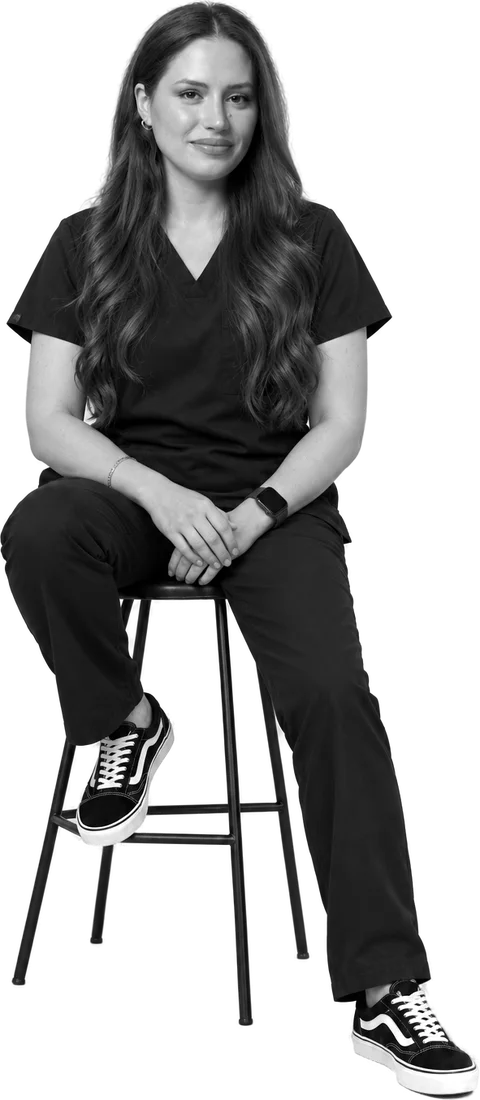
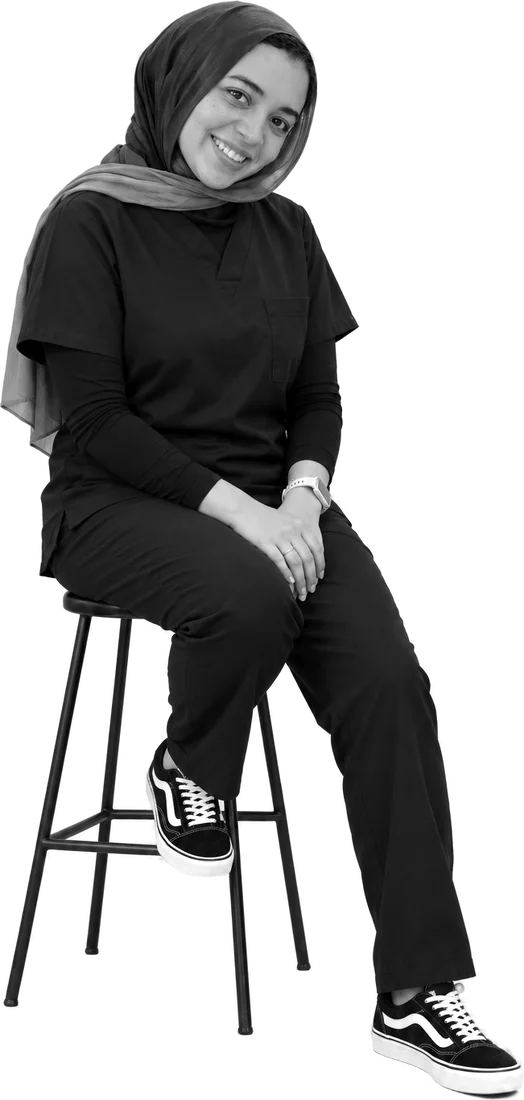
Add files via upload

diff --git a/index.html b/index.html
@@ -16,12 +16,11 @@
 <meta property="og:url" content="https://eleveclinicegy.com/">
 <link rel="canonical" href="https://eleveclinicegy.com/">
 <meta name="twitter:card" content="summary_large_image">
-<script type="application/ld+json">{"@context":"https://schema.org","@type":"Dentist","name":"ÉLEVÉ Dental & Aesthetic Clinic","url":"https://eleveclinicegy.com/","image":"https://eleveclinicegy.com/og-image.jpg","address":{"@type":"PostalAddress","streetAddress":"35 Oman Street, off Mohie El Din Abou El Ezz","addressLocality":"Dokki","addressRegion":"Giza","addressCountry":"EG"},"hasMap":"https://maps.app.goo.gl/qfj1usntq1YWVkui9","telephone":"+201037343514","sameAs":["https://www.instagram.com/elevedentaleg/","https://www.instagram.com/eleveaestheticeg/","https://www.facebook.com/profile.php?id=61591872480309","https://www.facebook.com/profile.php?id=61592040232927"]}</script>
+<script type="application/ld+json">{"@context":"https://schema.org","@type":"Dentist","name":"ÉLEVÉ Dental & Aesthetic Clinic","url":"https://eleveclinicegy.com/","image":"https://eleveclinicegy.com/og-image.jpg","address":{"@type":"PostalAddress","streetAddress":"35 Oman Street, off Mohie El Din Abou El Ezz","addressLocality":"Dokki","addressRegion":"Giza","addressCountry":"EG"},"hasMap":"https://maps.google.com/?q=Eleve%20dental%20and%20aesthetic%20clinic&ftid=0x145847f15ecc92a3:0x3178656723b6a2f4","telephone":"+201037343514","sameAs":["https://www.instagram.com/elevedentaleg/","https://www.instagram.com/eleveaestheticeg/","https://www.facebook.com/profile.php?id=61591872480309","https://www.facebook.com/profile.php?id=61592040232927"]}</script>
 <link rel="preconnect" href="https://fonts.googleapis.com">
 <link rel="preconnect" href="https://fonts.gstatic.com" crossorigin>
 <link rel="stylesheet" href="https://fonts.googleapis.com/css2?family=Cormorant+Garamond:ital,wght@0,400;0,500;1,400&family=Pinyon+Script&family=Source+Sans+3:wght@300;400;600&family=Noto+Naskh+Arabic:wght@500;600&family=IBM+Plex+Sans+Arabic:wght@300;400;600&display=swap">
 <style>body{margin:0}[hidden]{display:none!important}</style>
-
 <style>
 /* Layout: full-bleed photo hero, then two quiet bands of Instagram-style highlight circles (Dental, then Aesthetic), before/after, one dark booking band. Single light brand theme by choice. */
 :root{
@@ -249,8 +248,8 @@ html[dir="rtl"] .nav svg{transform:scaleX(-1)}
 .dname span{display:block;font:400 clamp(2.2rem,4.6vw,4rem)/1.08 var(--display)}
 html[lang="ar"] .dname span{font-family:var(--ar-display);font-weight:600;line-height:1.4;font-size:clamp(1.9rem,4vw,3.3rem)}
 .dname span:first-child{color:rgba(251,250,247,.72);font-size:clamp(1.6rem,3vw,2.5rem)}
-.drole{font:600 .74rem/1 var(--body);letter-spacing:.22em;text-transform:uppercase;color:var(--gold)}
-html[lang="ar"] .drole{font-family:var(--ar-body);letter-spacing:0;font-size:.95rem}
+.drole{font:600 .95rem/1.45 var(--body);letter-spacing:.01em;color:var(--gold);max-width:44ch}
+html[lang="ar"] .drole{font-family:var(--ar-body);letter-spacing:0;font-size:1rem}
 .dbio{color:rgba(251,250,247,.72);max-width:38ch}
 .stage .pic{position:relative;height:100%;min-height:inherit;display:flex;align-items:flex-end;justify-content:center}
 .stage .pic::before{content:"";position:absolute;inset:8% 0 0;background:radial-gradient(closest-side,rgba(182,146,102,.22),rgba(182,146,102,0));pointer-events:none}
@@ -295,6 +294,8 @@ html[dir="rtl"] .prog i{transform-origin:right}
   .dname span{font-size:1.75rem}
   .dname span:first-child{font-size:1.25rem}
   html[lang="ar"] .dname span{font-size:1.5rem}
+  .drole{font-size:.82rem}
+  html[lang="ar"] .drole{font-size:.88rem}
   .dbio{font-size:.9rem}
   .stage .pic{min-height:360px}
   .stage .pic img{height:360px}
@@ -327,6 +328,38 @@ html[lang="ar"] .ba .lab{font-family:var(--ar-body);letter-spacing:0;font-size:.
 .ba input{position:absolute;inset:0;width:100%;height:100%;opacity:0;cursor:ew-resize;z-index:3;margin:0}
 .ba-note{text-align:center;font-size:.85rem;color:var(--stone);margin-top:18px}
 @media (max-width:700px){.ba-grid{grid-template-columns:1fr}}
+
+/* reviews */
+.reviews{background:var(--sand);padding-block:clamp(64px,9vw,110px)}
+.reviews .top{display:flex;justify-content:space-between;align-items:end;gap:20px;flex-wrap:wrap;margin-bottom:clamp(28px,4vw,44px)}
+.reviews h2{font-size:clamp(2.2rem,4vw,3.2rem);margin-top:12px}
+.gscore{display:flex;align-items:center;gap:14px}
+.gscore b{font:400 3.2rem/1 var(--display);color:var(--ink)}
+.gscore .stars{color:var(--gold);letter-spacing:2px;font-size:1.1rem}
+.gscore small{display:block;color:#5c5852;font-size:.85rem}
+.rv{list-style:none;margin:0;padding:0;display:grid;grid-template-columns:repeat(3,1fr);gap:16px}
+.rv li{background:var(--paper);border-radius:22px;padding:26px;display:flex;flex-direction:column;gap:14px;min-width:0}
+.rv .stars{color:var(--gold);letter-spacing:2px}
+.rv q{quotes:none;font-size:1rem;line-height:1.65;color:var(--ink)}
+.rv q[lang="ar"]{font-family:var(--ar-body);direction:rtl;text-align:start}
+.rv footer{margin-top:auto;display:flex;justify-content:space-between;gap:10px;font-size:.85rem;color:var(--stone);background:none;padding:0}
+.rv footer b{color:var(--ink);font-weight:600}
+html[dir="rtl"] .flipx{display:inline-block;transform:scaleX(-1)}
+.reviews .more{margin-top:22px;display:inline-flex;gap:.5em;color:var(--gold-ink);font-weight:600;text-decoration:none}
+@media (max-width:860px){.rv{grid-template-columns:1fr}}
+
+/* payment */
+.pay{padding-block:clamp(48px,7vw,80px)}
+.pay .wrap{display:grid;grid-template-columns:.8fr 1.2fr;gap:clamp(24px,5vw,64px);align-items:center}
+.pay h2{font-size:clamp(2rem,3.6vw,2.8rem);margin-top:12px}
+.pay .lst{display:grid;gap:12px}
+.pay .row{display:flex;gap:14px;align-items:flex-start;padding:18px 20px;border:1px solid var(--line);border-radius:18px;background:var(--paper)}
+.pay .row svg{width:26px;height:26px;flex:none;fill:none;stroke:var(--gold-ink);stroke-width:1.6;stroke-linecap:round;stroke-linejoin:round;margin-top:2px}
+.pay .row b{display:block;font-weight:600;margin-bottom:4px}
+.pay .row span{color:var(--stone);font-size:.95rem}
+.pay .chips{display:flex;flex-wrap:wrap;gap:8px;margin-top:8px}
+.pay .chips i{font-style:normal;border:1px solid var(--line);border-radius:999px;padding:4px 12px;font-size:.85rem;color:var(--ink)}
+@media (max-width:860px){.pay .wrap{grid-template-columns:1fr}}
 
 /* booking form */
 .book .grid{display:grid;grid-template-columns:.85fr 1.15fr;gap:clamp(32px,6vw,72px);align-items:start;padding-bottom:clamp(48px,7vw,80px);border-bottom:1px solid rgba(251,250,247,.12)}
@@ -468,7 +501,6 @@ html[lang="ar"] .facts dt{font-family:var(--ar-body);letter-spacing:0;font-size:
   <section class="hero">
     <figure class="slide rec on"><img src="hero-reception.webp" alt="ÉLEVÉ reception desk under the clinic sign"></figure>
     <div class="copy">
-      <span class="eyebrow" data-i18n="hero.eyebrow"></span>
       <h1 data-i18n="hero.title"></h1>
       <p data-i18n="hero.lede"></p>
       <div class="row">
@@ -576,6 +608,32 @@ html[lang="ar"] .facts dt{font-family:var(--ar-body);letter-spacing:0;font-size:
     </div>
   </section>
 
+  <section class="reviews" id="reviews">
+    <div class="wrap">
+      <div class="top">
+        <div><span class="eyebrow" data-i18n="rv.eyebrow"></span><h2 data-i18n="rv.t"></h2></div>
+        <div class="gscore"><b>4.9</b><div><span class="stars" aria-hidden="true">★★★★★</span><small data-i18n="rv.score"></small></div></div>
+      </div>
+      <ul class="rv">
+        <li><span class="stars" aria-label="5 stars">★★★★★</span><q lang="en">I had a great experience. The clinic is clean, and everyone was friendly and professional. The doctor who did my skin booster was perfect, listened to all my concerns, and made me feel comfortable throughout the treatment.</q><footer><b>Salma A.</b><span>Google</span></footer></li>
+        <li><span class="stars" aria-label="5 stars">★★★★★</span><q lang="ar">عياده جميله و شغلهم مميز جداً محستش باي ألم دكتور عبدالرحمن و دكتور معاذ مريحين جداً في التعامل</q><footer><b>Ahmed K.</b><span>Google</span></footer></li>
+        <li><span class="stars" aria-label="5 stars">★★★★★</span><q lang="ar">أتقدم بجزيل الشكر للدكتور عبد الرحمن والدكتور معاذ على اهتمامهم الكبير براحة المرضى وحرصهم الشديد على التعقيم والنظافة، واحترافيتهم في التعامل. أسلوبهم الراقي واهتمامهم بكل التفاصيل خلّى التجربة مريحة جدًا ومطمئنة.</q><footer><b>Jana A.</b><span>Google</span></footer></li>
+      </ul>
+      <a class="more" href="https://maps.google.com/?q=Eleve%20dental%20and%20aesthetic%20clinic&amp;ftid=0x145847f15ecc92a3:0x3178656723b6a2f4" target="_blank" rel="noopener"><span data-i18n="rv.more"></span><span class="flipx">→</span></a>
+    </div>
+  </section>
+
+  <section class="pay" id="payment">
+    <div class="wrap">
+      <div><span class="eyebrow" data-i18n="pay.eyebrow"></span><h2 data-i18n="pay.t"></h2></div>
+      <div class="lst">
+        <div class="row"><svg viewBox="0 0 24 24"><rect x="3" y="5" width="18" height="14" rx="2.5"/><path d="M3 10h18M7 15h3"/></svg><div><b data-i18n="pay.1t"></b><span data-i18n="pay.1p"></span><div class="chips"><i>Visa</i><i>InstaPay</i></div></div></div>
+        <div class="row"><svg viewBox="0 0 24 24"><circle cx="12" cy="12" r="9"/><path d="M12 7v5l3 2"/></svg><div><b data-i18n="pay.2t"></b><span data-i18n="pay.2p"></span><div class="chips"><i>Fawry</i><i>Aman</i><i>Souhoola</i><i data-i18n="pay.more"></i></div></div></div>
+        <div class="row"><svg viewBox="0 0 24 24"><rect x="3" y="5" width="18" height="16" rx="2.5"/><path d="M3 10h18M8 3v4M16 3v4M8 14h2M14 14h2M8 17h2"/></svg><div><b data-i18n="pay.3t"></b><span data-i18n="pay.3p"></span></div></div>
+      </div>
+    </div>
+  </section>
+
   <section class="book" id="book">
     <span id="visit" style="position:absolute"></span>
     <div class="wrap">
@@ -612,7 +670,7 @@ html[lang="ar"] .facts dt{font-family:var(--ar-body);letter-spacing:0;font-size:
         <div>
           <h4 data-i18n="i.addrT"></h4>
           <p data-i18n="i.addr"></p>
-          <a href="https://maps.app.goo.gl/qfj1usntq1YWVkui9" target="_blank" rel="noopener" style="color:var(--gold);margin-top:8px" data-i18n="i.map"></a>
+          <a href="https://maps.google.com/?q=Eleve%20dental%20and%20aesthetic%20clinic&amp;ftid=0x145847f15ecc92a3:0x3178656723b6a2f4" target="_blank" rel="noopener" style="color:var(--gold);margin-top:8px" data-i18n="i.map"></a>
         </div>
         <div>
           <h4 data-i18n="i.hoursT"></h4>
@@ -698,7 +756,7 @@ en:{
  "ba.before":"Before","ba.after":"After","ba.c1":"Smile restoration","ba.c2":"Full smile makeover","ba.note":"Patient photos are published with written consent.",
  "book.t":"Book your visit","book.p":"Leave your details and the clinic team will contact you to confirm the nearest appointment.",
  "i.addrT":"Address","i.addr":"35 Oman Street, off Mohie El Din Abou El Ezz, Dokki, Giza","i.map":"Open in Google Maps →",
- "i.hoursT":"Opening hours","i.followT":"Follow us","i.phoneT":"Phone & WhatsApp","i.hours":"Saturday – Thursday<br>12:00 pm – 10:00 pm",
+ "rv.eyebrow":"Reviews","rv.t":"What our patients say","rv.score":"Google rating","rv.more":"Read all reviews on Google","pay.eyebrow":"Payment","pay.t":"Easy ways to pay","pay.1t":"Card or InstaPay","pay.1p":"Pay by Visa card or InstaPay at the clinic.","pay.2t":"Installments","pay.2p":"Split the cost with installment apps.","pay.more":"and more","pay.3t":"Orthodontics in-house installments","pay.3p":"Orthodontic treatment can be paid in installments directly with the clinic.","i.hoursT":"Opening hours","i.followT":"Follow us","i.phoneT":"Phone & WhatsApp","i.hours":"Every day except Friday<br>12:00 pm – 10:00 pm",
  "legal":"© 2026 ÉLEVÉ Dental & Aesthetic Clinic. Results vary from person to person.",
  "f1":"Session","f2":"Course","f3":"Recovery",
  "sh.book":"Book this on WhatsApp","sh.note":"Typical figures. Your doctor confirms your plan at the consultation.",
@@ -729,7 +787,7 @@ ar:{
  "ba.before":"قبل","ba.after":"بعد","ba.c1":"إعادة بناء الابتسامة","ba.c2":"تغيير شامل للابتسامة","ba.note":"صور المرضى بتتنشر بموافقة مكتوبة.",
  "book.t":"احجز زيارتك","book.p":"سيب بياناتك، وفريق العيادة هيتواصل معاك يأكد أقرب معاد.",
  "i.addrT":"العنوان","i.addr":"٣٥ شارع عمان، متفرع من محيي الدين أبو العز، الدقي، الجيزة","i.map":"افتح على خرائط جوجل ←",
- "i.hoursT":"مواعيد العمل","i.followT":"تابعونا","i.phoneT":"التليفون وواتساب","i.hours":"السبت – الخميس<br>١٢ ظهرًا – ١٠ مساءً",
+ "rv.eyebrow":"آراء المرضى","rv.t":"المرضى بيقولوا إيه عننا","rv.score":"تقييم جوجل","rv.more":"اقرأ كل التقييمات على جوجل","pay.eyebrow":"الدفع","pay.t":"طرق دفع سهلة","pay.1t":"فيزا أو إنستاباي","pay.1p":"ادفع بالفيزا أو إنستاباي في العيادة.","pay.2t":"التقسيط","pay.2p":"قسّط التكلفة من خلال تطبيقات التقسيط.","pay.more":"وغيرها","pay.3t":"تقسيط التقويم مع العيادة","pay.3p":"علاج التقويم ممكن يتقسّط مباشرة مع العيادة.","i.hoursT":"مواعيد العمل","i.followT":"تابعونا","i.phoneT":"التليفون وواتساب","i.hours":"كل يوم ما عدا الجمعة<br>١٢ ظهرًا – ١٠ مساءً",
  "legal":"© ٢٠٢٦ إيليفيه لطب الأسنان والتجميل. النتائج تختلف من شخص لآخر.",
  "f1":"الجلسة","f2":"عدد الجلسات","f3":"التعافي",
  "sh.book":"احجز الخدمة دي على واتساب","sh.note":"أرقام تقريبية. الطبيب بيأكد خطتك في الاستشارة.",
@@ -782,7 +840,7 @@ const S = {
   ["fillings","Cosmetic fillings","الحشو التجميلي","Tooth-coloured fillings matched to the shade of your natural teeth.","حشوات بلون الأسنان مطابقة لدرجة أسنانك الطبيعية.",["30–60 min","٣٠–٦٠ دقيقة"],["1 visit","زيارة واحدة"],["None","لا يوجد"]],
   ["implants","Dental implants","زراعة الأسنان","A titanium root that replaces a missing tooth and carries a natural-looking crown.","جذر من التيتانيوم يعوّض السن المفقود ويتثبت عليه تاج طبيعي الشكل.",["60–90 min","٦٠–٩٠ دقيقة"],["Crown after 3–6 months","التاج بعد ٣–٦ شهور"],["2–3 days","٢–٣ أيام"]],
   ["rootcanal","Root canal","علاج العصب","Removes infection inside the tooth to save it and stop the pain.","إزالة الالتهاب من داخل السن للحفاظ عليه وإيقاف الألم.",["60–90 min","٦٠–٩٠ دقيقة"],["1–2 visits","١–٢ زيارة"],["1–2 days","يوم أو اتنين"]],
-  ["ortho","Orthodontics","تقويم الأسنان","Straightens teeth and corrects the bite, for children, teens and adults.","تعديل الأسنان وتصحيح العضة، للأطفال والمراهقين والكبار.",["20–30 min check-ups","متابعة ٢٠–٣٠ دقيقة"],["6–24 months","٦–٢٤ شهر"],["Mild tenderness after adjustments","إحساس بسيط بعد الشد"]],
+  ["ortho","Orthodontics","تقويم الأسنان","Straightens teeth and corrects the bite, for children, teens and adults. Installments available directly with the clinic.","تعديل الأسنان وتصحيح العضة، للأطفال والمراهقين والكبار. ومتاح تقسيط مباشر مع العيادة.",["20–30 min check-ups","متابعة ٢٠–٣٠ دقيقة"],["6–24 months","٦–٢٤ شهر"],["Mild tenderness after adjustments","إحساس بسيط بعد الشد"]],
   ["kids","Pediatric dentistry","أسنان الأطفال","Gentle first visits, prevention and fillings made easy for children.","زيارات أولى هادية، ووقاية وحشوات بطريقة مريحة للأطفال.",["30 min","٣٠ دقيقة"],["As needed","حسب الحاجة"],["None","لا يوجد"]],
   ["general","General dentistry","طب الأسنان العام","Check-ups, cleaning and polishing to keep your teeth healthy.","كشف دوري وتنظيف وتلميع للحفاظ على صحة أسنانك.",["30–45 min","٣٠–٤٥ دقيقة"],["Every 6 months","كل ٦ شهور"],["None","لا يوجد"]],
   ["gums","Gum treatment","علاج اللثة","Deep cleaning and care for bleeding, swollen or receding gums.","تنظيف عميق وعلاج للثة اللي بتنزف أو ملتهبة أو منحسرة.",["45–60 min","٤٥–٦٠ دقيقة"],["1–4 visits","١–٤ زيارات"],["1–2 days","يوم أو اتنين"]],
@@ -804,12 +862,24 @@ const S = {
 
 /* Doctors: add role and bio (EN + AR) for each doctor when ready; empty fields fall back to a general line */
 const DOCTORS = [
- {img:"abdelrahman", script:"Abdelrahman", en:"Abdelrahman Samir", ar:"عبد الرحمن سمير", role:{en:"",ar:""}, bio:{en:"",ar:""}},
- {img:"hisham",      script:"Hisham",      en:"Hisham",            ar:"هشام",            role:{en:"",ar:""}, bio:{en:"",ar:""}},
- {img:"moaz",        script:"Moaz",        en:"Moaz",              ar:"معاذ",            role:{en:"",ar:""}, bio:{en:"",ar:""}},
- {img:"basma",       script:"Basma",       en:"Basma",             ar:"بسمة",            role:{en:"",ar:""}, bio:{en:"",ar:""}},
- {img:"jody",        script:"Jody",        en:"Jody",              ar:"جودي",            role:{en:"",ar:""}, bio:{en:"",ar:""}},
- {img:"safya",       script:"Safya",       en:"Safya",             ar:"صفية",            role:{en:"",ar:""}, bio:{en:"",ar:""}}
+ {img:"abdelrahman", script:"Abdelrhman",
+  en:{l1:"Dr. Abdelrhman", l2:"Samir", role:"Oral & Maxillofacial Surgery Specialist · Fellow of the American Academy of Implant Dentistry", bio:"Focuses on oral and maxillofacial surgery and dental implants, including the rehabilitation of complex cases and replacement of missing teeth, alongside aesthetic smile enhancement with veneers."},
+  ar:{l1:"د. عبد الرحمن", l2:"سمير", role:"أخصائي جراحة الفم والوجه والفكين · زميل الأكاديمية الأمريكية لزراعة الأسنان", bio:"يركّز على جراحة الفم والوجه والفكين وزراعة الأسنان، بما في ذلك تأهيل الحالات المعقدة وتعويض الأسنان المفقودة، إلى جانب تجميل الابتسامة بالفينير."}},
+ {img:"hisham", script:"Hesham",
+  en:{l1:"Dr. Hesham", l2:"Mostafa", role:"Master’s Degree in Prosthodontics · Fellow of the Royal College in England", bio:"Focuses on aesthetic restorative dentistry, veneer treatments and smile design, combining dental function with refined aesthetic results."},
+  ar:{l1:"د. هشام", l2:"مصطفى", role:"ماجستير التركيبات · زميل الكلية الملكية بإنجلترا", bio:"يركّز على طب الأسنان التجميلي والترميمي وعلاجات الفينير وتصميم الابتسامة، بالجمع بين وظيفة الأسنان ونتيجة جمالية راقية."}},
+ {img:"moaz", script:"Moaz",
+  en:{l1:"Dr.", l2:"Moaz", role:"", bio:""},
+  ar:{l1:"د.", l2:"معاذ", role:"", bio:""}},
+ {img:"basma", script:"Basma",
+  en:{l1:"Dr. Basma", l2:"Mostafa", role:"Master’s Degree in Prosthodontics, Kasr Al Ainy · Pediatric Dentistry Specialist", bio:"Focuses on prosthodontics and aesthetic dental restorations, alongside specialised dental care for children tailored to each stage of their development."},
+  ar:{l1:"د. بسمة", l2:"مصطفى", role:"ماجستير التركيبات، قصر العيني · أخصائية طب أسنان الأطفال", bio:"تركّز على التركيبات والترميمات التجميلية للأسنان، إلى جانب رعاية متخصصة لأسنان الأطفال تناسب احتياجاتهم في كل مرحلة من مراحل النمو."}},
+ {img:"joud", script:"Joud",
+  en:{l1:"Dr. Joud", l2:"El Naeb", role:"Facial Aesthetic Specialist", bio:"Focused on non-surgical facial aesthetic treatments that enhance natural features and facial harmony, with attention to detail and balanced results."},
+  ar:{l1:"د. چود", l2:"النايب", role:"أخصائية تجميل الوجه", bio:"متخصصة في الإجراءات التجميلية غير الجراحية التي تهدف إلى إبراز ملامح الوجه وتحقيق التناسق الطبيعي، مع الاهتمام بالتفاصيل للحصول على نتائج أنيقة ومتناغمة."}},
+ {img:"safya", script:"Safia",
+  en:{l1:"Dr. Safia", l2:"Mohamed", role:"Plastic Surgery Specialist", bio:"Dedicated to aesthetic solutions that combine medical precision with aesthetic harmony, prioritising natural-looking results tailored to each patient."},
+  ar:{l1:"د. صفية", l2:"محمد", role:"أخصائية جراحات التجميل", bio:"تهتم بتقديم الحلول التجميلية التي تجمع بين الدقة الطبية والتناسق الجمالي، مع التركيز على نتائج طبيعية تتناسب مع ملامح كل حالة."}}
 ];
 const DOC_SECONDS = 7;
 
@@ -831,7 +901,7 @@ function render(){
   }
   $$(".wa-link").forEach(a=>a.href=wa(t("msgGen")));
   renderOffer(); fillForm();
-  $("#thumbs").innerHTML = DOCTORS.map((d,i)=>`<li><button type="button" data-doc="${i}" aria-label="${t("dr")} ${d[lang]}"><span class="face"><i style="background-image:url(drc-${d.img}.webp)"></i></span>${d[lang].split(" ")[0]}</button></li>`).join("");
+  $("#thumbs").innerHTML = DOCTORS.map((d,i)=>`<li><button type="button" data-doc="${i}" aria-label="${d[lang].l1} ${d[lang].l2}"><span class="face"><i style="background-image:url(drc-${d.img}.webp)"></i></span>${d[lang].l1.replace(/^(Dr\.|د\.)\s*/,"") || d[lang].l2}</button></li>`).join("");
   showDoc(docI, false);
   if (current) fill(current);
 }
@@ -911,14 +981,14 @@ const reduceMotion = window.matchMedia && matchMedia("(prefers-reduced-motion: r
 DOCTORS.forEach(d=>{ const im=new Image(); im.src=`drc-${d.img}.webp`; });
 function showDoc(i, animate=true){
   docI = (i + DOCTORS.length) % DOCTORS.length;
-  const d = DOCTORS[docI], words = d[lang].split(" "), last = words.pop();
+  const d = DOCTORS[docI], L = d[lang];
   const st = $("#stage");
   const [l1,l2] = $("#d-name").children;
-  l1.textContent = [t("dr"), ...words].join(" "); l2.textContent = last;
-  $("#d-role").textContent = d.role[lang] || t("doc.role");
-  $("#d-bio").textContent = d.bio[lang] || t("doc.bio");
+  l1.textContent = L.l1; l2.textContent = L.l2;
+  $("#d-role").textContent = L.role || t("doc.role");
+  $("#d-bio").textContent = L.bio || t("doc.bio");
   $("#d-script").textContent = d.script;
-  $("#d-img").src = `drc-${d.img}.webp`; $("#d-img").alt = `${t("dr")} ${d[lang]}`;
+  $("#d-img").src = `drc-${d.img}.webp`; $("#d-img").alt = `${L.l1} ${L.l2}`;
   $("#d-i").textContent = String(docI+1).padStart(2,"0"); $("#d-n").textContent = String(DOCTORS.length).padStart(2,"0");
   $$("#thumbs button").forEach((b,k)=>b.setAttribute("aria-current", k===docI));
   if (animate && !reduceMotion){ st.classList.remove("in"); void st.offsetWidth; st.classList.add("in"); }
